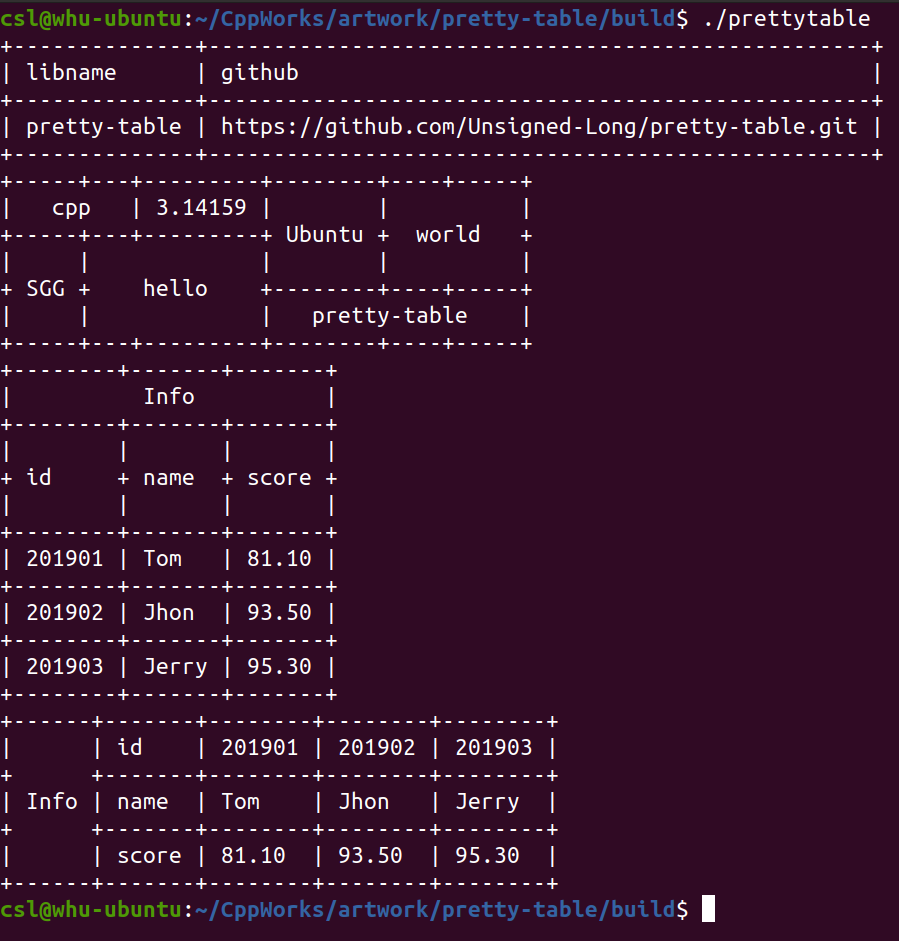
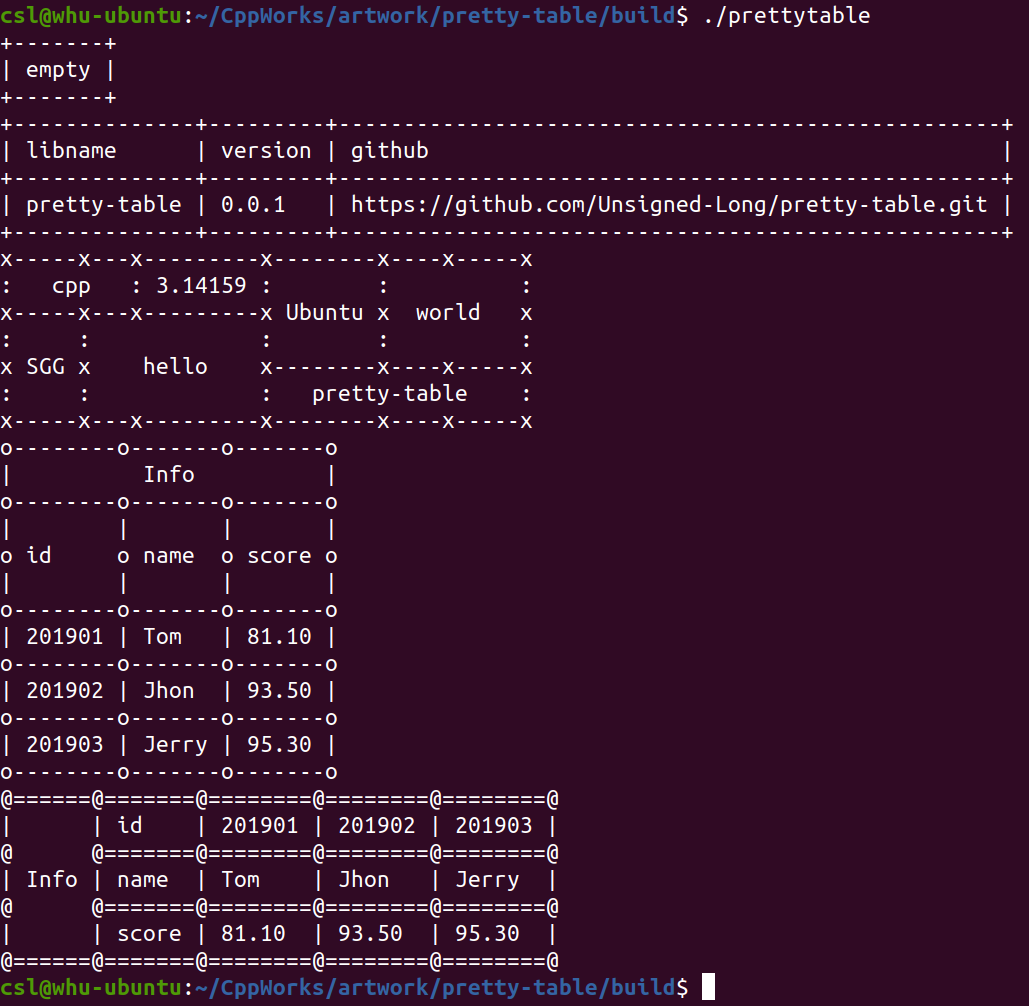
update

diff --git a/src/include/prettytable.hpp b/src/include/prettytable.hpp
@@ -122,12 +122,18 @@ namespace ns_pretab {
     // Records the grid used by the current table
     std::map<std::size_t, std::set<std::size_t>> _usedGrid;
 
+    const char _nodeChar;
+    const char _verticalChar;
+    const char _horizontalChar;
+
   public:
     /**
      * @brief Construct a new Pretty Table object
      */
-    explicit PrettyTable(int precision = 3, std ::size_t padding = 1)
-        : _grids(), _colWidthVec(), _rowCount(0), _precision(precision), _padding(padding) {}
+    explicit PrettyTable(int precision = 3, std ::size_t padding = 1,
+                         char nodeChar = '+', char verticalChar = '|', char horizontalChar = '-')
+        : _grids(), _colWidthVec(), _rowCount(0), _precision(precision), _padding(padding),
+          _nodeChar(nodeChar), _verticalChar(verticalChar), _horizontalChar(horizontalChar) {}
 
     /**
      * @brief add a grid to current table
@@ -324,14 +330,16 @@ namespace ns_pretab {
     [[nodiscard]] std::string toString() const {
       // If the form is empty, the empty form is printed
       if (this->empty()) {
-        return "+-------+\n| empty |\n+-------+";
+        return _nodeChar + std::string(_padding * 2 + 5, _horizontalChar) + _nodeChar + '\n' +
+               _verticalChar + std::string(_padding, ' ') + "empty" + std::string(_padding, ' ') + _verticalChar + '\n' +
+               _nodeChar + std::string(_padding * 2 + 5, _horizontalChar) + _nodeChar;
       }
 
       // Create two types of boundaries for tables
-      std::string line1("+"), line2("|");
+      std::string line1(1, _nodeChar), line2(1, _verticalChar);
       for (const auto &elem : this->_colWidthVec) {
-        line1 += std::string(2 * this->_padding + elem, '-') + '+';
-        line2 += std::string(2 * this->_padding + elem, ' ') + '|';
+        line1 += std::string(2 * this->_padding + elem, _horizontalChar) + _nodeChar;
+        line2 += std::string(2 * this->_padding + elem, ' ') + _verticalChar;
       }
 
       // Initialize table string

diff --git a/src/main.cpp b/src/main.cpp
@@ -32,14 +32,15 @@ public:
 void example0() {
   ns_pretab::PrettyTable tab(1);
 
-  tab.addGrid(0, 0, "libname").addGrid(0, 1, "github");
-  tab.addGrid(1, 0, "pretty-table").addGrid(1, 1, "https://github.com/Unsigned-Long/pretty-table.git");
+  tab.addGrid(0, 0, "libname").addGrid(1, 0, "pretty-table");
+  tab.addGrid(0, 1, "version").addGrid(1, 1, "0.0.1");
+  tab.addGrid(0, 2, "github").addGrid(1, 2, "https://github.com/Unsigned-Long/pretty-table.git");
 
   std::cout << tab << std::endl;
 }
 
 void example1() {
-  ns_pretab::PrettyTable tab(5, 1);
+  ns_pretab::PrettyTable tab(5, 1, 'x', ':', '-');
 
   tab.addGrid(1, 1, "hello", ns_pretab::Align::CENTER, 2, 2);
   tab.addGrid(0, 4, "world", ns_pretab::Align::CENTER, 2, 2);
@@ -53,7 +54,7 @@ void example1() {
 }
 
 void example2() {
-  ns_pretab::PrettyTable tab(2, 1);
+  ns_pretab::PrettyTable tab(2, 1, 'o', '|', '-');
 
   auto [h, vec] = CSV_READ_FILE_H("../data/info.csv", ',', Info, int, std::string, float);
   tab.addGrid(0, 0, "Info", ns_pretab::Align::CENTER, 1, 3);
@@ -67,7 +68,7 @@ void example2() {
 }
 
 void example3() {
-  ns_pretab::PrettyTable tab(2, 1);
+  ns_pretab::PrettyTable tab(2, 1, '@', '|', '=');
 
   auto [h, vec] = CSV_READ_FILE_H("../data/info.csv", ',', Info, int, std::string, float);
   tab.addGrid(0, 0, "Info", ns_pretab::Align::CENTER, 3, 1);
@@ -82,6 +83,7 @@ void example3() {
 
 int main(int argc, char const *argv[]) {
   try {
+    std::cout << ns_pretab::PrettyTable() << std::endl;
     example0();
     example1();
     example2();

diff --git a/readme.md b/readme.md
@@ -49,13 +49,13 @@ code:
 output:
 
 ```cpp
-+-----+---+---------+--------+----+-----+
-|   cpp   | 3.14159 |        |          |
-+-----+---+---------+ Ubuntu +  world   +
-|     |             |        |          |
-+ SGG +    hello    +--------+----+-----+
-|     |             |   pretty-table    |
-+-----+---+---------+--------+----+-----+
+x-----x---x---------x--------x----x-----x
+:   cpp   : 3.14159 :        :          :
+x-----x---x---------x Ubuntu x  world   x
+:     :             :        :          :
+x SGG x    hello    x--------x----x-----x
+:     :             :   pretty-table    :
+x-----x---x---------x--------x----x-----x
 ```
 
 code:
@@ -65,19 +65,19 @@ code:
 output:
 
 ```cpp
-+--------+-------+-------+
+o--------o-------o-------o
 |          Info          |
-+--------+-------+-------+
+o--------o-------o-------o
 |        |       |       |
-+ id     + name  + score +
+o id     o name  o score o
 |        |       |       |
-+--------+-------+-------+
+o--------o-------o-------o
 | 201901 | Tom   | 81.10 |
-+--------+-------+-------+
+o--------o-------o-------o
 | 201902 | Jhon  | 93.50 |
-+--------+-------+-------+
+o--------o-------o-------o
 | 201903 | Jerry | 95.30 |
-+--------+-------+-------+
+o--------o-------o-------o
 ```
 
 code:
@@ -87,13 +87,13 @@ code:
 output:
 
 ```cpp
-+------+-------+--------+--------+--------+
+@======@=======@========@========@========@
 |      | id    | 201901 | 201902 | 201903 |
-+      +-------+--------+--------+--------+
+@      @=======@========@========@========@
 | Info | name  | Tom    | Jhon   | Jerry  |
-+      +-------+--------+--------+--------+
+@      @=======@========@========@========@
 |      | score | 81.10  | 93.50  | 95.30  |
-+------+-------+--------+--------+--------+
+@======@=======@========@========@========@
 ```
 
 Output
@@ -129,7 +129,8 @@ enum class Align {
 /**
  * @brief Construct a new Pretty Table object
  */
-explicit PrettyTable(std::size_t precision = 3, std ::size_t padding = 1);
+explicit PrettyTable(int precision = 3, std ::size_t padding = 1,
+                     char nodeChar = '+', char verticalChar = '|', char horizontalChar = '-');
 ```
 
 **add a grid**
